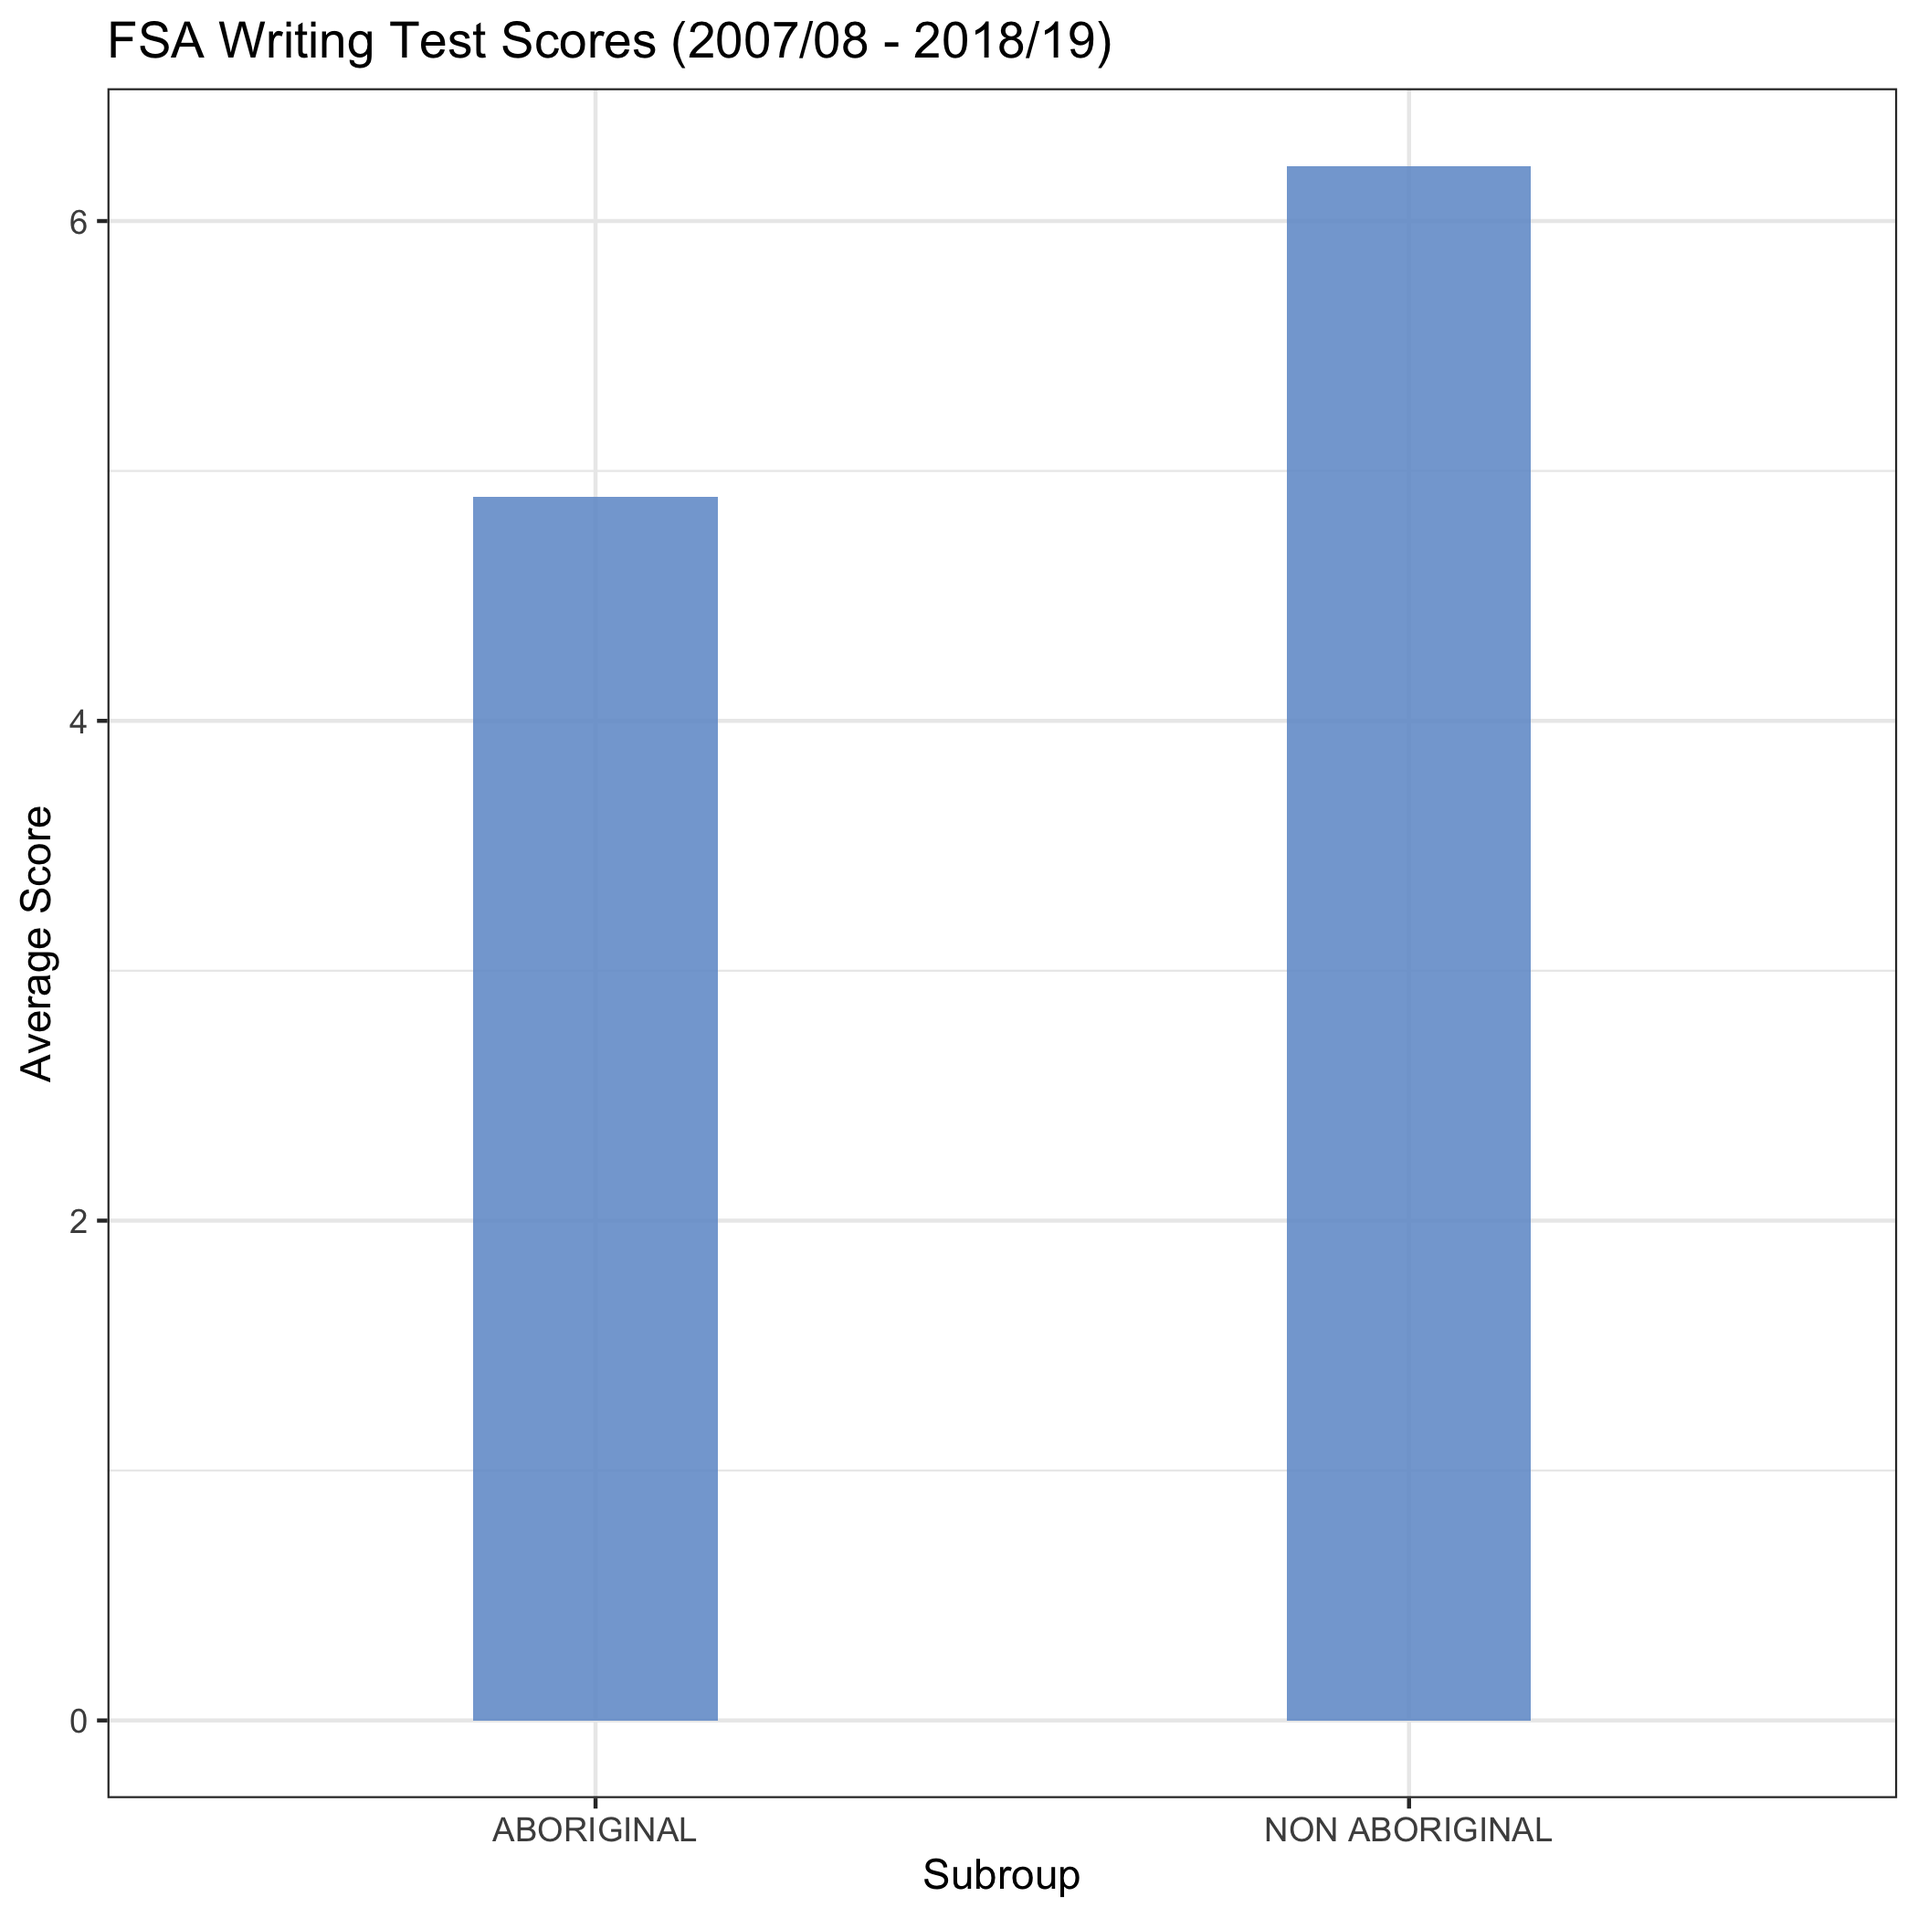
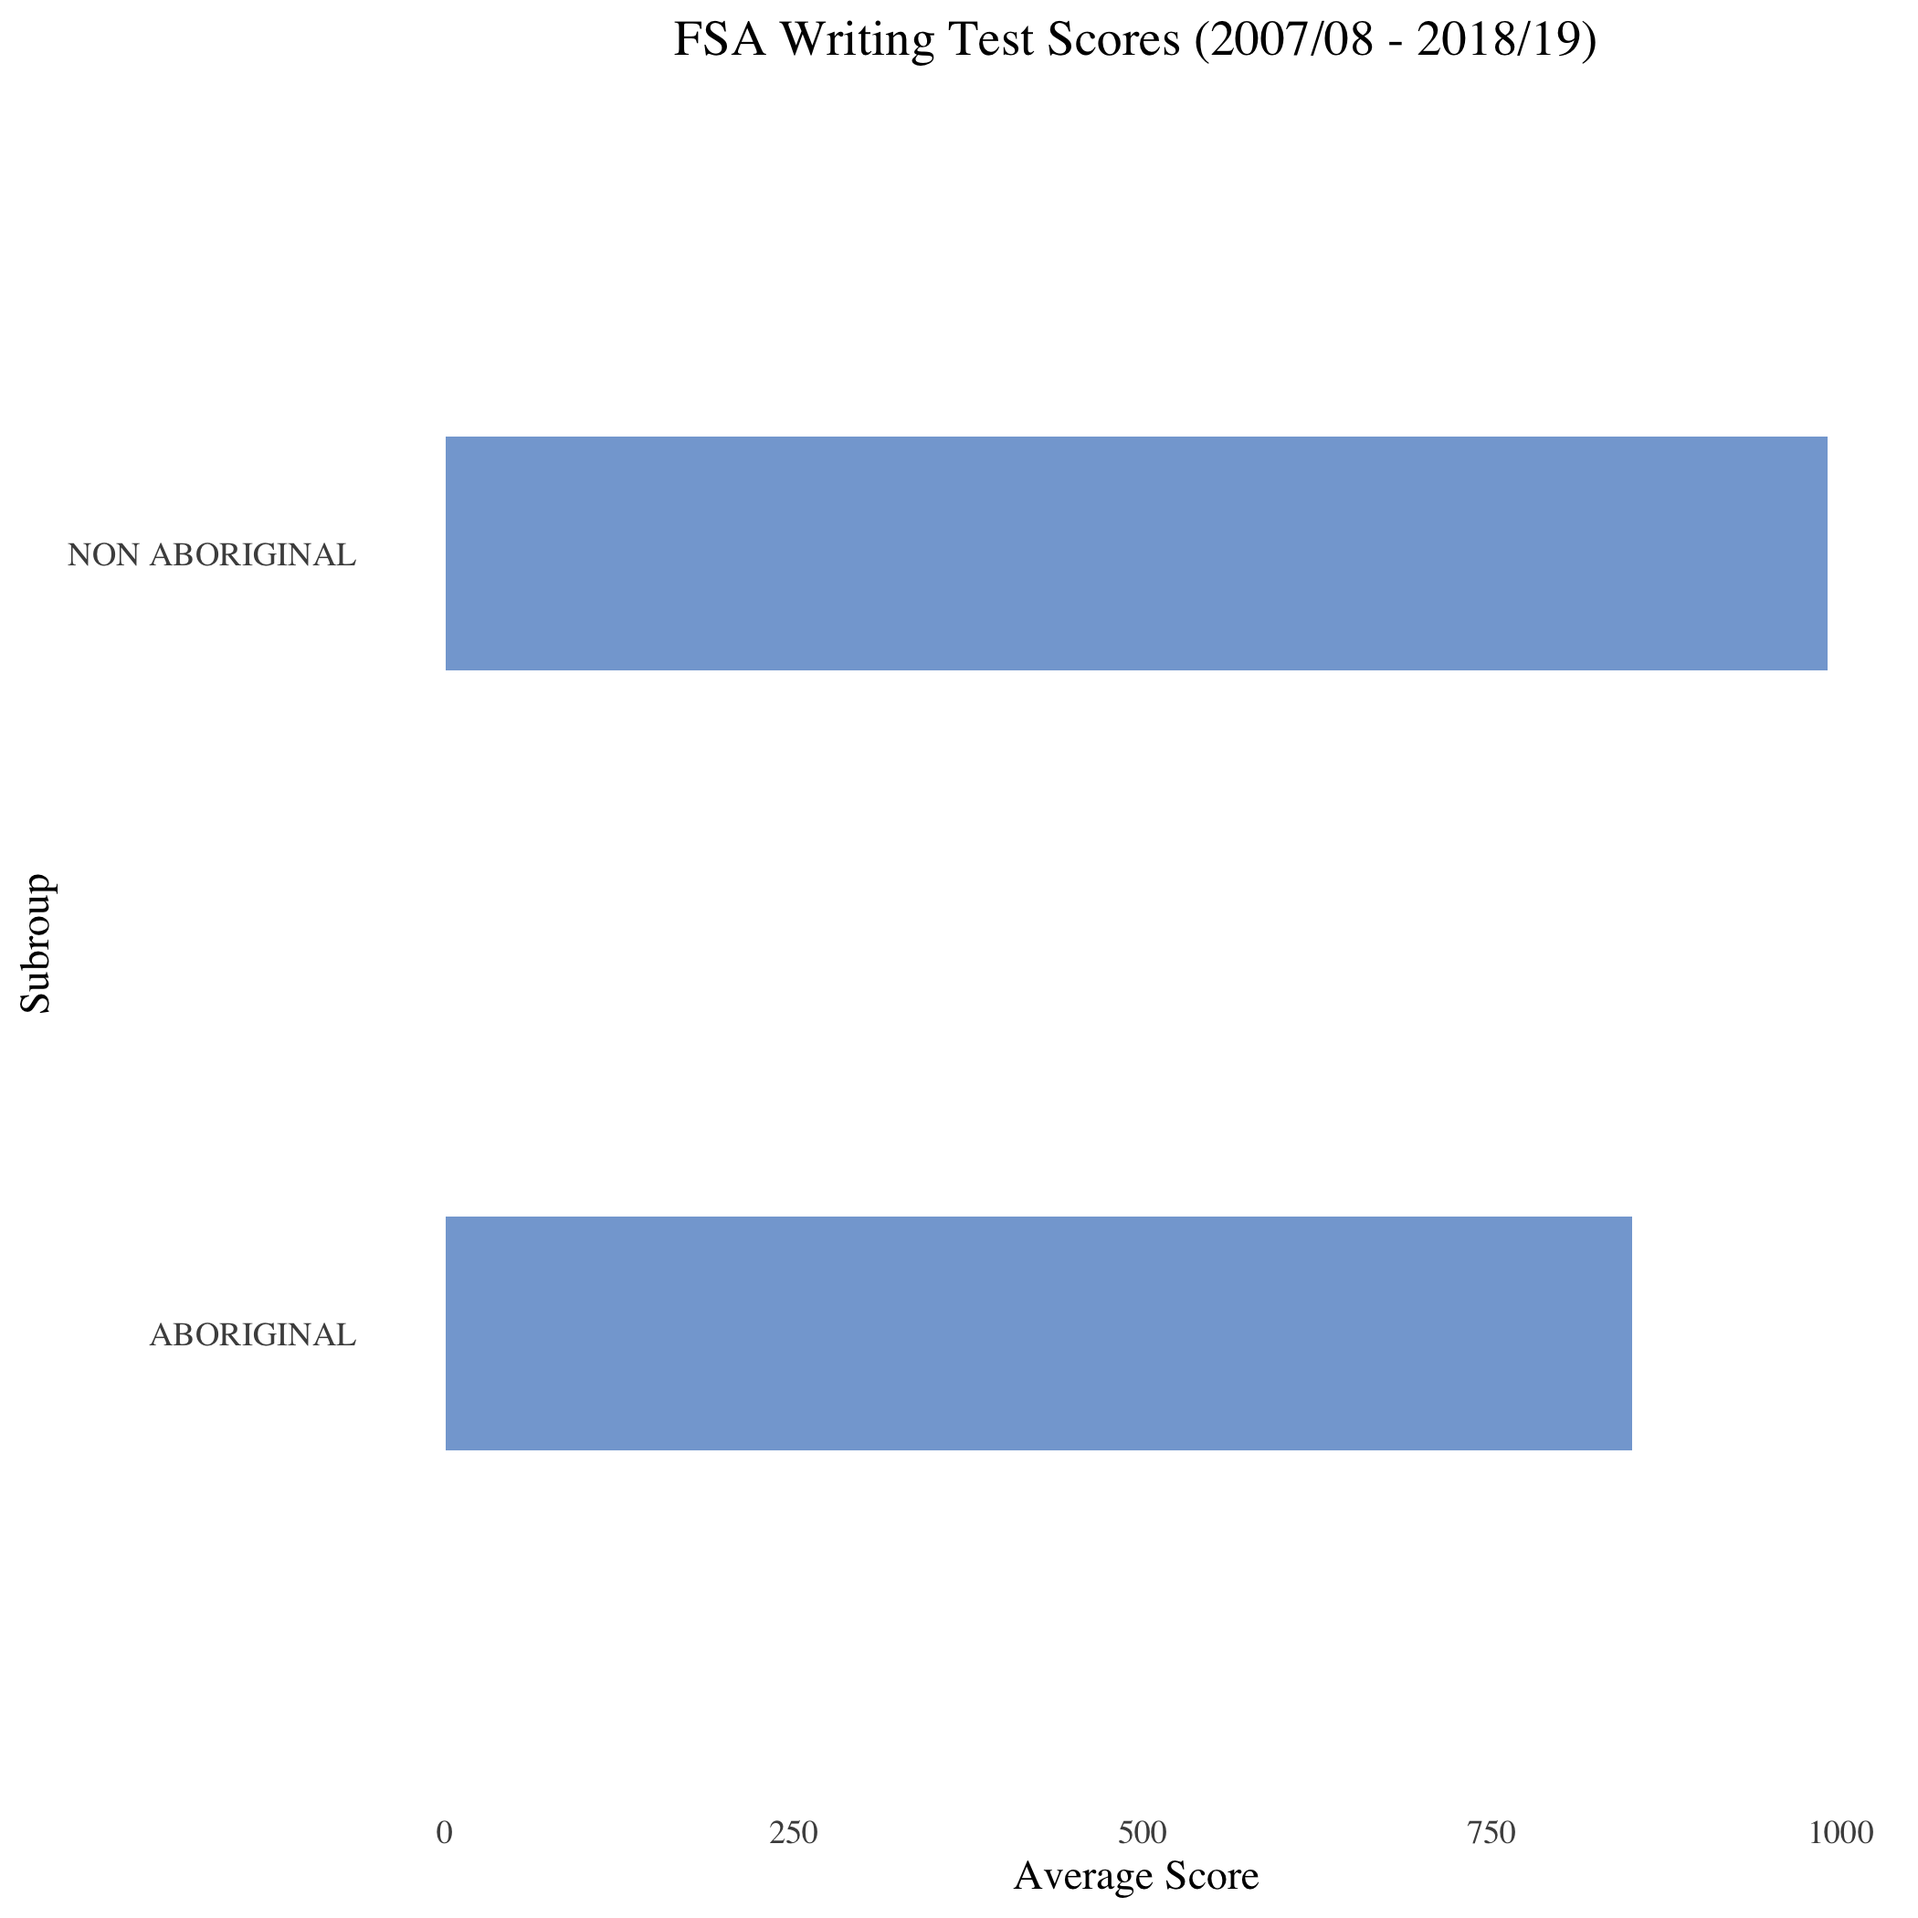
modify plots based on Firas feedback

diff --git a/doc/report.md b/doc/report.md
@@ -1,18 +1,7 @@
 Are There Differences in FSA Scores Between Subgroups?
 ================
 DSCI 522 Group 304: Anny Chih, Robert Pimentel, & Wenjiao Zou <br>
-2020-01-23 (updated: 2020-02-04)
-
-  - [Summary](#summary)
-  - [Introduction](#introduction)
-  - [Methods](#methods)
-      - [Data](#data)
-      - [Analysis](#analysis)
-  - [Results](#results)
-      - [Conclusion](#conclusion)
-      - [Future Direction](#future-direction)
-      - [Notes on Limitations](#notes-on-limitations)
-      - [References](#references)
+2020-01-23 (updated: 2020-02-05)
 
 # Summary
 
@@ -181,15 +170,18 @@ Independent School students were generally higher than mean aggregate
 scores for BC Public School students across all subgroups and time
 periods. To view larger versions of the graphs, please see the
 [img](https://github.com/UBC-MDS/DSCI_522_Group304/tree/master/img)
-folder of the project repository.
+folder of the project
+repository.
 
 <img src="../img/bar_plot_numeracy.png" width="50%" /><img src="../img/bar_plot_reading.png" width="50%" />
 
 Fig: Mean aggregate scores for Numeracy and Reading sections of the FSA
-exam by school type and subgroup (Red: BC Independent Schools, Blue: BC
-Public Schools)
+exam by school type and subgroup (Yellow pairs: Numeracy test, Blue
+pairs: Reading test; Bright ones:BC Independent Schools, Dim ones: BC
+Public
+Schools)
 
-<img src="../img/line_ind_numeracy.png" width="50%" /><img src="../img/line_ind_read.png" width="50%" />
+<img src="../img/line_pub_ind.png" width="60%" height="60%" style="display: block; margin: auto;" />
 
 Fig: Mean aggregate scores for Numeracy and Reading sections of the FSA
 exam by school type over time (Red: BC Independent Schools, Blue: BC
@@ -203,7 +195,8 @@ histograms to plot the mean aggregate scores for each exam section.
 The following plots visualize the difference in scores using boxplots.
 The boxplots for the mean aggregate scores between the subgroups do not
 overlap much for both Numeracy and Reading sections of the exam, which
-suggests that the differences in scores may be significant.
+suggests that the differences in scores may be
+significant.
 
 <img src="../img/fig_pi_numeracy.png" width="50%" /><img src="../img/fig_pi_reading.png" width="50%" />
 
@@ -221,7 +214,8 @@ replacement 5000 times.
 Note that because the confidence intervals (areas between dash lines of
 same color) for both groups do not overlap in either histogram, we can
 expect a significant difference in mean aggregate scores for both skills
-between groups when we apply T-tests.
+between groups when we apply
+T-tests.
 
 <img src="../img/fig_pi_histogram_numeracy.png" width="50%" /><img src="../img/fig_pi_histogram_reading.png" width="50%" />
 
@@ -390,9 +384,11 @@ time.
 <img src="../img/bar_plot_ab_numeracy.png" width="50%" /><img src="../img/bar_plot_ab_read.png" width="50%" />
 
 Fig: Mean aggregate scores for Numeracy and Reading sections of the FSA
-exam by subgroup (Aboriginal / Non Aboriginal)
+exam by subgroup (Yellow pairs: Numeracy test, Blue pairs: Reading test;
+Bright ones:Non aboriginal, Dim ones:
+Aboriginal)
 
-<img src="../img/line_ab_numeracy.png" width="50%" /><img src="../img/line_ab_reading.png" width="50%" />
+<img src="../img/line_ab.png" width="60%" height="60%" style="display: block; margin: auto;" />
 
 Fig: Mean aggregate scores for Numeracy and Reading sections of the FSA
 exam by subgroup (Aboriginal / Non Aboriginal) over time
@@ -405,7 +401,8 @@ histograms to plot the mean aggregate scores for each exam section.
 The following plots visualize the difference in scores using boxplots.
 Here we see that the boxplots for the different subgroups (Aboriginal /
 Non Aboriginal) do not overlap, which is a strong indicator that there
-is a significant difference in scores between the groups.
+is a significant difference in scores between the
+groups.
 
 <img src="../img/fig_ana_numeracy.png" width="50%" /><img src="../img/fig_ana_reading.png" width="50%" />
 
@@ -417,7 +414,8 @@ For consistency, histograms and confidence intervals for both skills
 constructed in the same way here as with the independent vs public shool
 analysis. Results on these plots also indicate that there is a
 significant difference in scores between the two student subgroups for
-both numeracy and reading skills.
+both numeracy and reading
+skills.
 
 <img src="../img/fig_ana_histogram_numeracy.png" width="50%" /><img src="../img/fig_ana_histogram_reading.png" width="50%" />
 
@@ -758,7 +756,7 @@ Confidence Interval (High)
 
 ## References
 
-<div id="refs" class="references hanging-indent">
+<div id="refs" class="references">
 
 <div id="ref-repr">
 
